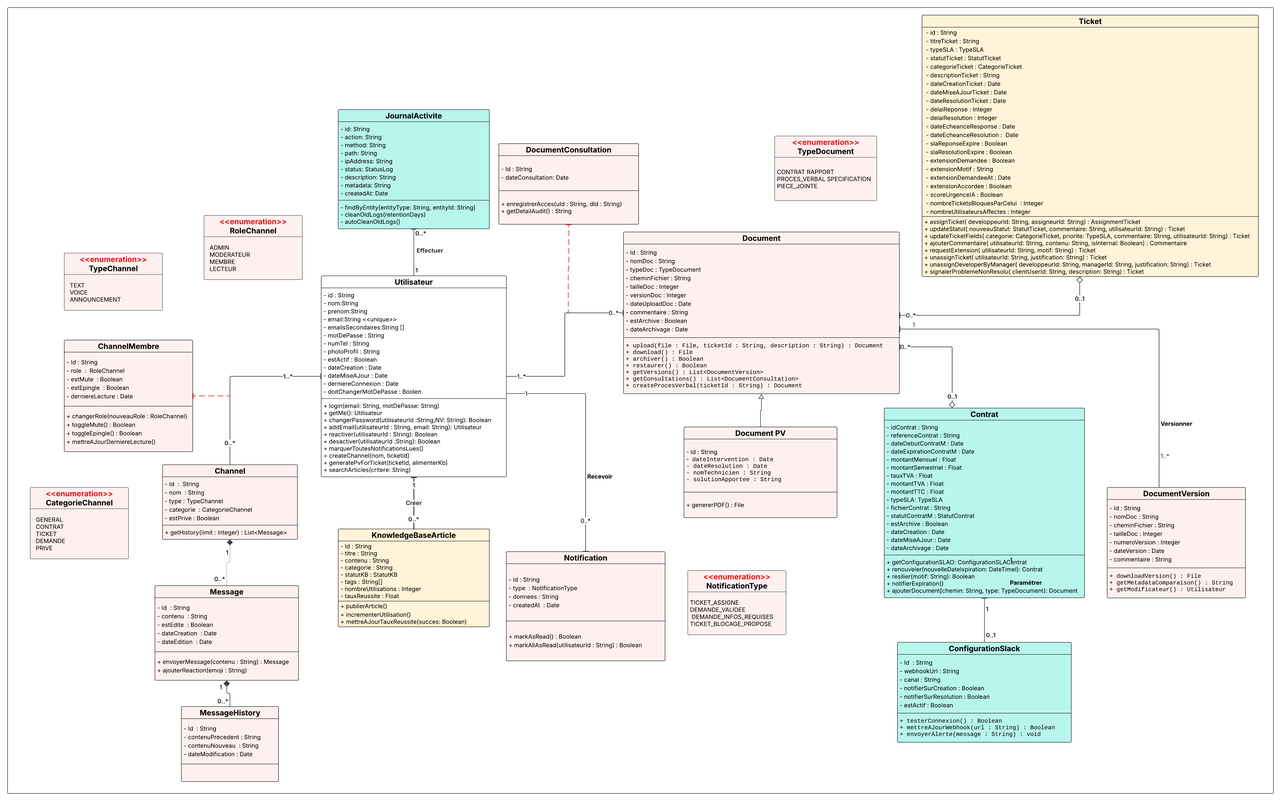
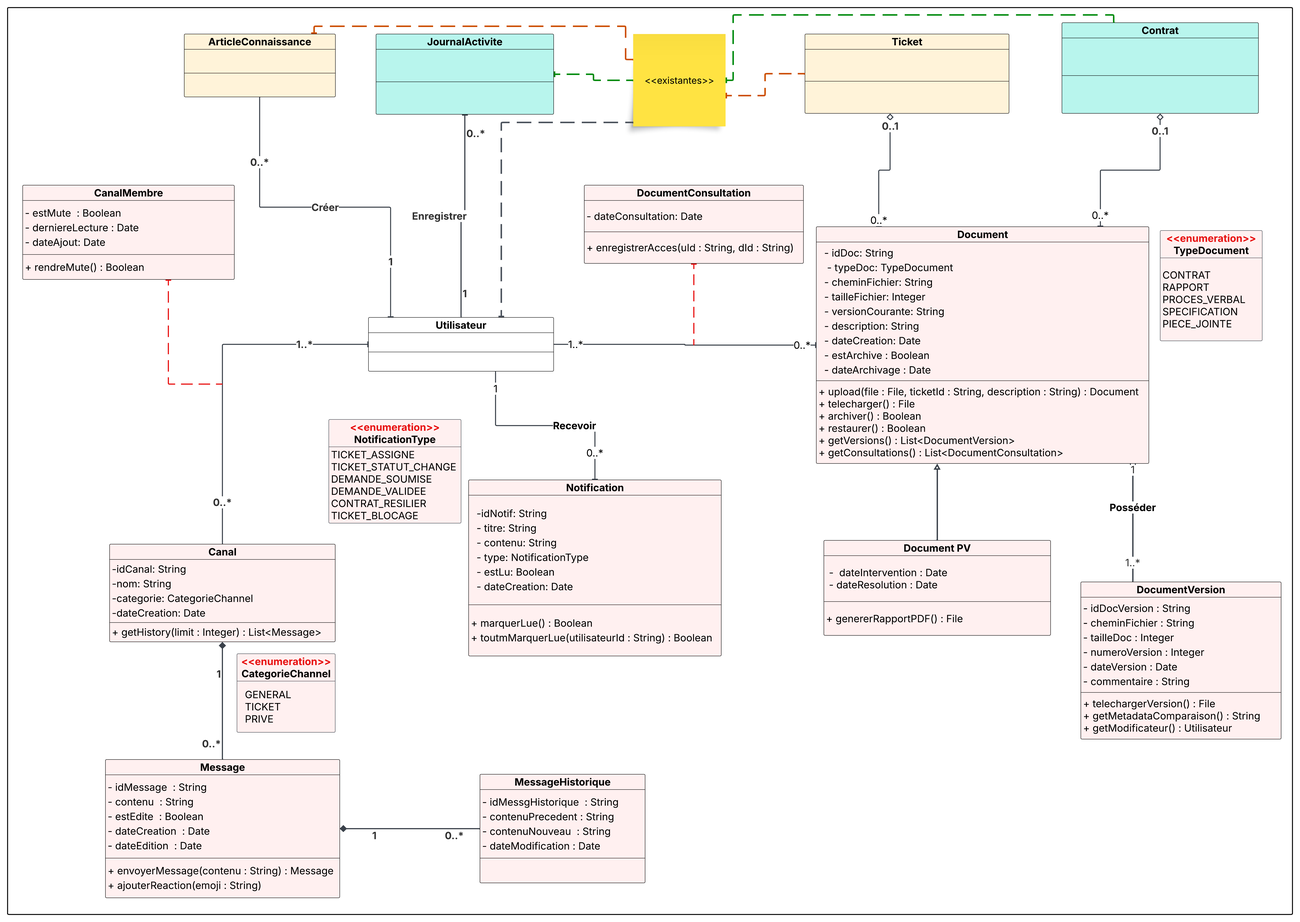
v

diff --git a/tex/product_backlog.tex b/tex/product_backlog.tex
@@ -191,121 +191,118 @@
 & & US48 & En tant que \textbf{chef de projet}, je souhaite consulter une file de priorité intelligente des tickets actifs afin de traiter en premier les interventions les plus critiques.
 & Les tickets sont triés par un score d'urgence composite et affichés avec leur niveau de criticité et le détail du calcul. & ++ \\
 \cline{3-6}
-& & US49 & En tant que \textbf{développeur}, je souhaite me désassigner d'un ticket afin de libérer ma charge. 
-& Le développeur doit fournir un motif pour se désassigner. Le ticket redevient disponible pour assignation. Le chef de projet est notifié de la désassignation. & ++ \\
-\cline{3-6}
-& & US50 & En tant que \textbf{développeur}, je souhaite démarrer un chronomètre sur un ticket afin d’enregistrer le temps de travail effectué. 
+& & US49 & En tant que \textbf{développeur}, je souhaite démarrer un chronomètre sur un ticket afin d’enregistrer le temps de travail effectué. 
 & Le développeur peut démarrer le suivi du temps de travail. Une session de travail est créée avec l'heure de début. Le développeur voit le temps écoulé en temps réel. & +++ \\
 \cline{3-6}
-& & US51 & En tant que \textbf{développeur}, je souhaite mettre en pause mon chronomètre afin de gérer les interruptions. 
+& & US50 & En tant que \textbf{développeur}, je souhaite mettre en pause mon chronomètre afin de gérer les interruptions. 
 & Le développeur peut suspendre temporairement le suivi du temps. Le temps écoulé est enregistré. Le développeur peut reprendre le suivi ultérieurement. & ++ \\
 \cline{3-6}
-& & US52 & En tant que \textbf{développeur}, je souhaite arrêter le chronomètre afin de finaliser ma session. 
+& & US51 & En tant que \textbf{développeur}, je souhaite arrêter le chronomètre afin de finaliser ma session. 
 & Le développeur peut arrêter le suivi du temps. Le développeur peut ajouter un commentaire sur le travail effectué. La session est ajoutée à l'historique. Le développeur est alerté si le temps dépasse l'estimation. & +++ \\
 \cline{3-6}
-& & US53 & En tant que \textbf{développeur}, je souhaite ajouter manuellement une session de travail afin de corriger des oublis. 
+& & US52 & En tant que \textbf{développeur}, je souhaite ajouter manuellement une session de travail afin de corriger des oublis. 
 & Le développeur peut enregistrer une session de travail passée. Le développeur doit fournir la date, l'heure et la durée. Le développeur doit justifier l'ajout manuel. Le système vérifie qu'il n'y a pas de chevauchement avec d'autres sessions. & ++ \\
 \cline{3-6}
-& & US54 & En tant que \textbf{développeur}, je souhaite changer le statut d'un ticket afin de refléter l'avancement. 
+& & US53 & En tant que \textbf{développeur}, je souhaite changer le statut d'un ticket afin de refléter l'avancement. 
 & Le développeur peut faire progresser un ticket selon le workflow défini. Le système empêche les transitions invalides. Toutes les parties prenantes sont notifiées lors d'un changement. L'historique des changements est conservé. & +++ \\
 \cline{3-6}
-& & US55 & En tant que \textbf{client}, je souhaite valider la résolution d'un ticket afin de confirmer que le problème est résolu. 
+& & US54 & En tant que \textbf{client}, je souhaite valider la résolution d'un ticket afin de confirmer que le problème est résolu. 
 & Le client peut confirmer que le problème est résolu. Le client peut ajouter un commentaire de validation. Le ticket est fermé après validation. Le développeur est notifié de la validation. & +++ \\
 \cline{3-6}
-& & US56 & En tant que \textbf{chef de projet}, je souhaite rouvrir un ticket fermé afin de traiter un problème récurrent. 
+& & US55 & En tant que \textbf{chef de projet}, je souhaite rouvrir un ticket fermé afin de traiter un problème récurrent. 
 & Le chef de projet doit justifier la réouverture. Le délai SLA est réinitialisé. Les développeurs assignés sont notifiés. & ++ \\
 \cline{3-6}
-& & US57 & En tant que \textbf{chef de projet}, je souhaite consulter le temps passé par ticket afin d'analyser la productivité. 
+& & US56 & En tant que \textbf{chef de projet}, je souhaite consulter le temps passé par ticket afin d'analyser la productivité. 
 & Le chef de projet visualise le temps total passé sur chaque ticket. Le chef de projet voit le détail par développeur. Les données sont présentées sous forme de graphiques. & ++ \\
 \cline{3-6}
-& & US58 & En tant que \textbf{développeur}, je souhaite signaler un blocage afin d'alerter sur un obstacle. 
+& & US57 & En tant que \textbf{développeur}, je souhaite signaler un blocage afin d'alerter sur un obstacle. 
 & Le développeur peut signaler un obstacle bloquant. Le développeur précise le type et l'impact du blocage. Le chef de projet reçoit une notification urgente. Le délai SLA est suspendu pendant le blocage. & +++ \\
 \cline{3-6}
-& & US59 & En tant que \textbf{chef de projet}, je souhaite résoudre un blocage afin de permettre au développeur de reprendre son travail. 
+& & US58 & En tant que \textbf{chef de projet}, je souhaite résoudre un blocage afin de permettre au développeur de reprendre son travail. 
 & Le blocage est résolu avec commentaire obligatoire, le chrono SLA reprend et l'action est tracée. & ++ \\
 \cline{3-6}
-& & US60 & En tant qu'\textbf{utilisateur}, je souhaite commenter un ticket avec mentions afin de communiquer efficacement. 
+& & US59 & En tant qu'\textbf{utilisateur}, je souhaite commenter un ticket avec mentions afin de communiquer efficacement. 
 & Les commentaires sont ajoutés avec éditeur riche, autocomplétion @utilisateur et distinction internes/externes. & +++ \\
 \cline{3-6}
-& & US61 & En tant qu'\textbf{utilisateur}, je souhaite ajouter des pièces jointes aux tickets afin de fournir du contexte. 
+& & US60 & En tant qu'\textbf{utilisateur}, je souhaite ajouter des pièces jointes aux tickets afin de fournir du contexte. 
 & Les fichiers sont ajoutés par drag \& drop (images/PDF/logs, max 10MB) avec prévisualisation. & ++ \\
 \cline{3-6}
-& & US62 & En tant que \textbf{développeur}, je souhaite être informé lorsqu'un autre utilisateur modifie le même ticket. 
+& & US61 & En tant que \textbf{développeur}, je souhaite être informé lorsqu'un autre utilisateur modifie le même ticket. 
 & Une notification temps réel via WebSocket affiche un toast et un indicateur "X est en train d'éditer". & ++ \\
 \cline{3-6}
-& & US63 & En tant qu'\textbf{utilisateur}, je souhaite consulter l'historique complet d'un ticket afin de comprendre son évolution. 
+& & US62 & En tant qu'\textbf{utilisateur}, je souhaite consulter l'historique complet d'un ticket afin de comprendre son évolution. 
 & La timeline chronologique inversée affiche tous les événements avec filtres par type et export PDF. & ++ \\
 \hline
 
 % Epic 9: Calendrier et planification
 \multirow{4}{*}{\centering 9} & \multirow{4}{2.5cm}{\centering Calendrier et planification}  
-& US64 & En tant qu'\textbf{utilisateur}, je souhaite visualiser les tickets et demandes de maintenance sur un calendrier mensuel afin d'avoir une vue globale des interventions 
+& US63 & En tant qu'\textbf{utilisateur}, je souhaite visualiser les tickets et demandes de maintenance sur un calendrier mensuel afin d'avoir une vue globale des interventions 
 & L'utilisateur peut naviguer entre les mois, distinguer les types d'événements (Tickets/Demandes) par couleur et voir les titres tronqués. & +++ \\
 \cline{3-6}
-& & US65 & En tant qu'\textbf{administrateur}, je souhaite identifier visuellement les urgences SLA sur le calendrier afin de prioriser les interventions critiques. 
+& & US64 & En tant qu'\textbf{administrateur}, je souhaite identifier visuellement les urgences SLA sur le calendrier afin de prioriser les interventions critiques. 
 & Les événements en retard ou proches de l'échéance apparaissent en rouge/orange avec un indicateur visuel (pulse) sur les urgences critiques. & +++ \\
 \cline{3-6}
-& & US66 & En tant que \textbf{Chef de Projet}, je souhaite accéder à une vue Gantt / Agenda afin d'analyser la charge de travail et la progression de chaque développeur. 
+& & US65 & En tant que \textbf{Chef de Projet}, je souhaite accéder à une vue Gantt / Agenda afin d'analyser la charge de travail et la progression de chaque développeur. 
 &La vue affiche la timeline des affectations, le pourcentage de progression des tickets et le taux de charge calculé en temps réel par développeur. & ++ \\
 \cline{3-6}
-& & US67 & En tant qu'\textbf{utilisateur}, je souhaite accéder aux détails d'un ticket directement depuis le calendrier afin de consulter ou modifier l'intervention rapidement. 
+& & US66 & En tant qu'\textbf{utilisateur}, je souhaite accéder aux détails d'un ticket directement depuis le calendrier afin de consulter ou modifier l'intervention rapidement. 
 & Un clic sur un événement dans le calendrier ou le panneau latéral redirige l'utilisateur vers la page de détails correspondante. & ++ \\
 \hline
 
 % Epic 10: Messagerie et collaboration
 \multirow{9}{*}{\centering 10} & \multirow{9}{2.5cm}{\centering Messagerie et collaboration} 
-& US68 & En tant qu'\textbf{utilisateur}, je souhaite accéder à une messagerie intégrée afin de communiquer avec mon équipe. 
+& US67 & En tant qu'\textbf{utilisateur}, je souhaite accéder à une messagerie intégrée afin de communiquer avec mon équipe. 
 & L'utilisateur visualise les canaux de discussion disponibles. L'utilisateur voit le nombre de messages non lus. L'utilisateur identifie les membres présents. & ++ \\
 \cline{3-6}
-& & US69 & En tant qu'\textbf{utilisateur}, je souhaite envoyer des messages dans un Canal afin de communiquer. 
+& & US68 & En tant qu'\textbf{utilisateur}, je souhaite envoyer des messages dans un Canal afin de communiquer. 
 & L'utilisateur peut rédiger et envoyer des messages. L'utilisateur peut joindre des fichiers. Les messages sont reçus instantanément par les autres membres. & +++ \\
 \cline{3-6}
-& & US70 & En tant qu'\textbf{utilisateur}, je souhaite répondre à un message afin de créer un fil de discussion. 
+& & US69 & En tant qu'\textbf{utilisateur}, je souhaite répondre à un message afin de créer un fil de discussion. 
 & L'utilisateur peut répondre à un message spécifique. Les réponses sont regroupées dans un fil dédié. Seuls les participants au fil reçoivent les notifications. & ++ \\
 \cline{3-6}
-& & US71 & En tant qu'\textbf{utilisateur}, je souhaite mentionner des collègues afin d'attirer leur attention. 
+& & US70 & En tant qu'\textbf{utilisateur}, je souhaite mentionner des collègues afin d'attirer leur attention. 
 & L'utilisateur peut mentionner un collègue dans un message. Le collègue mentionné reçoit une notification. Le message mentionné est mis en évidence pour le destinataire. & +++ \\
 \cline{3-6}
-& & US72 & En tant qu'\textbf{utilisateur}, je souhaite éditer mes messages afin de corriger des erreurs. 
+& & US71 & En tant qu'\textbf{utilisateur}, je souhaite éditer mes messages afin de corriger des erreurs. 
 & L'utilisateur peut modifier un message récemment envoyé. Le message modifié est identifiable. L'historique des modifications est conservé. & + \\
 \cline{3-6}
-& & US73 & En tant qu'\textbf{utilisateur}, je souhaite supprimer mes messages afin de retirer du contenu inapproprié. 
+& & US72 & En tant qu'\textbf{utilisateur}, je souhaite supprimer mes messages afin de retirer du contenu inapproprié. 
 & L'utilisateur peut supprimer ses propres messages. Une confirmation est demandée avant suppression. Le message supprimé reste visible pour l'audit. & + \\
 \cline{3-6}
-& & US74 & En tant qu'\textbf{utilisateur}, je souhaite voir qui est en ligne afin de savoir qui est disponible. 
+& & US73 & En tant qu'\textbf{utilisateur}, je souhaite voir qui est en ligne afin de savoir qui est disponible. 
 & L'utilisateur voit le statut de disponibilité des autres membres. L'utilisateur peut modifier son propre statut. Le statut est visible par tous les membres. & ++ \\
 \hline
 
 % Epic 11: Gestion des documents
 \multirow{11}{*}{\centering 11} & \multirow{11}{2.5cm}{\centering Gestion des documents} 
-& US75 & En tant qu'\textbf{utilisateur}, je souhaite uploader des documents afin de centraliser les fichiers. 
+& US74 & En tant qu'\textbf{utilisateur}, je souhaite uploader des documents afin de centraliser les fichiers. 
 & L'utilisateur peut téléverser des documents. L'utilisateur peut associer un document à un contrat, projet ou ticket. L'utilisateur peut ajouter un titre, une description et des tags. & ++ \\
 \cline{3-6}
-& & US76 & En tant qu'\textbf{utilisateur}, je souhaite télécharger des documents afin de les consulter hors ligne. 
+& & US75 & En tant qu'\textbf{utilisateur}, je souhaite télécharger des documents afin de les consulter hors ligne. 
 & L'utilisateur peut télécharger un document individuel. L'utilisateur peut télécharger plusieurs documents simultanément. Le système vérifie les permissions avant le téléchargement. La consultation est enregistrée pour traçabilité. & ++ \\
 \cline{3-6}
-& & US77 & En tant qu'\textbf{utilisateur}, je souhaite gérer les versions des documents afin d'assurer la traçabilité. 
+& & US76 & En tant qu'\textbf{utilisateur}, je souhaite gérer les versions des documents afin d'assurer la traçabilité. 
 & L'utilisateur peut téléverser une nouvelle version d'un document existant. Le système numérote automatiquement les versions. L'utilisateur doit fournir un commentaire pour chaque nouvelle version. & ++ \\
 \cline{3-6}
-& & US78 & En tant qu'\textbf{administrateur}, je souhaite archiver des documents afin de nettoyer la vue active. 
+& & US77 & En tant qu'\textbf{administrateur}, je souhaite archiver des documents afin de nettoyer la vue active. 
 &  L'administrateur peut archiver un document. Une confirmation est demandée avant archivage. Le document archivé peut être restauré ultérieurement. & + \\
 \cline{3-6}
-& & US79 & En tant que \textbf{chef de projet}, je souhaite générer automatiquement un PV à partir d'un ticket afin de documenter les interventions. 
+& & US78 & En tant que \textbf{chef de projet}, je souhaite générer automatiquement un PV à partir d'un ticket afin de documenter les interventions. 
 & Le chef de projet peut générer un procès-verbal depuis un ticket. Le document contient toutes les informations du ticket et les actions réalisées. Le document peut être signé électroniquement. & +++ \\
 \cline{3-6}
-& & US80 & En tant que \textbf{client}, je souhaite accéder aux documents de mes contrats et à mes justificatifs de tickets afin de centraliser nos échanges de fichiers. & 
+& & US79 & En tant que \textbf{client}, je souhaite accéder aux documents de mes contrats et à mes justificatifs de tickets afin de centraliser nos échanges de fichiers. & 
 Le client peut consulter et télécharger les documents liés à son contrat. Sur ses tickets, il n'accède qu'aux fichiers qu'il a lui-même soumis.& ++ \\
 \cline{3-6}
-& & US81 & En tant qu'\textbf{utilisateur}, je souhaite créer une nouvelle version d'un document afin de maintenir l'historique. 
+& & US80 & En tant qu'\textbf{utilisateur}, je souhaite créer une nouvelle version d'un document afin de maintenir l'historique. 
 & L'utilisateur peut téléverser une nouvelle version d'un document. L'utilisateur doit fournir un commentaire pour la nouvelle version. Le système numérote automatiquement les versions. Toutes les versions précédentes sont conservées. & ++ \\
 \cline{3-6}
-& & US82 & En tant qu'\textbf{utilisateur}, je souhaite voir qui a consulté un document afin de suivre sa diffusion. 
+& & US81 & En tant qu'\textbf{utilisateur}, je souhaite voir qui a consulté un document afin de suivre sa diffusion. 
 & L'utilisateur visualise la liste des consultations du document. L'historique indique la date, l'heure et l'utilisateur. Des statistiques de consultation sont disponibles. & ++ \\
 \cline{3-6}
-& & US83 & En tant qu'\textbf{développeur ou chef de projet}, je souhaite consulter la base de connaissances afin de trouver des solutions existantes. 
+& & US82 & En tant qu'\textbf{développeur ou chef de projet}, je souhaite consulter la base de connaissances afin de trouver des solutions existantes. 
 & L'utilisateur peut rechercher par mots-clés, catégorie ou tags. Les résultats affichent titre et extrait. Un clic ouvre l'article complet. & ++ \\
 \cline{3-6}
-& & US84 & En tant qu'\textbf{administrateur}, je souhaite créer des articles de la base de connaissances afin d'enrichir la documentation. 
+& & US83 & En tant qu'\textbf{administrateur}, je souhaite créer des articles de la base de connaissances afin d'enrichir la documentation. 
 & L'administrateur peut créer des articles. La création est tracée et horodatée. L'historique des versions est conservé. & ++ \\
 \cline{3-6}
 
@@ -313,73 +310,73 @@ Le client peut consulter et télécharger les documents liés à son contrat. Su
 
 % Epic 12: Notifications
 \multirow{5}{*}{\centering 12} & \multirow{5}{2.5cm}{\centering Notifications et alertes} 
-& US85 & En tant qu'\textbf{utilisateur}, je souhaite recevoir des notifications in-app afin d'être informé en temps réel. 
+& US84 & En tant qu'\textbf{utilisateur}, je souhaite recevoir des notifications in-app afin d'être informé en temps réel. 
 & L'utilisateur visualise le nombre de notifications non lues. L'utilisateur peut consulter la liste des notifications. L'utilisateur peut marquer une notification comme lue. L'utilisateur peut accéder directement à l'élément concerné. & +++ \\
 \cline{3-6}
-& & US86 & En tant qu'\textbf{utilisateur}, je souhaite recevoir des notifications par email afin d'être informé hors connexion. 
+& & US85 & En tant qu'\textbf{utilisateur}, je souhaite recevoir des notifications par email afin d'être informé hors connexion. 
 & L'utilisateur reçoit des emails pour les événements importants. & ++ \\
 \cline{3-6}
-& & US87 & En tant que \textbf{utilisateur}, je souhaite recevoir des notifications Slack afin d'être alerté sur mon outil de travail. 
+& & US86 & En tant que \textbf{utilisateur}, je souhaite recevoir des notifications Slack afin d'être alerté sur mon outil de travail. 
 & L'administrateur peut configurer l'intégration Slack par contrat ou projet. Les événements importants sont envoyés sur Slack. & ++ \\
 \cline{3-6}
-& & US88 & En tant qu'\textbf{utilisateur}, je souhaite recevoir des notifications push navigateur afin d'être alerté même hors onglet. 
+& & US87 & En tant qu'\textbf{utilisateur}, je souhaite recevoir des notifications push navigateur afin d'être alerté même hors onglet. 
 & L'utilisateur peut autoriser les notifications navigateur. L'utilisateur reçoit des alertes pour les événements critiques. L'utilisateur peut accéder à l'application en cliquant sur la notification. & ++ \\
 \cline{3-6}
-& & US89 & En tant qu'\textbf{utilisateur}, je souhaite consulter l'historique de mes notifications afin de retrouver une information. 
+& & US88 & En tant qu'\textbf{utilisateur}, je souhaite consulter l'historique de mes notifications afin de retrouver une information. 
 & L'utilisateur accède à l'historique depuis le bouton de notifications du header. Le compteur de notifications non lues reste visible. & ++ \\
 \hline
 
 % Epic 13: Dashboards et rapports
 \multirow{7}{*}{\centering 13} & \multirow{7}{2.5cm}{\centering Dashboards et rapports } 
-& US90 & En tant qu'\textbf{administrateur}, je souhaite consulter un dashboard global afin de piloter le système. 
+& US89 & En tant qu'\textbf{administrateur}, je souhaite consulter un dashboard global afin de piloter le système. 
 & L'administrateur visualise les indicateurs clés du système. L'administrateur peut filtrer les données par période. L'administrateur identifie les alertes nécessitant une action. & +++ \\
 \cline{3-6}
-&  & US91 & En tant que \textbf{chef de projet}, je souhaite consulter un dashboard d'équipe afin de piloter l'activité. 
+&  & US90 & En tant que \textbf{chef de projet}, je souhaite consulter un dashboard d'équipe afin de piloter l'activité. 
 & Le chef de projet visualise la charge de travail de son équipe. Le chef de projet suit la performance par rapport aux délais. Le chef de projet compare le temps passé au temps estimé. & +++ \\
 \cline{3-6}
-& & US92 & En tant que \textbf{client}, je souhaite consulter mon dashboard afin de suivre mes projets.
+& & US91 & En tant que \textbf{client}, je souhaite consulter mon dashboard afin de suivre mes projets.
 &Le dashboard permet au client de consulter ses KPIs globaux (haut), de suivre visuellement ses projets et tickets & ++ \\
 \cline{3-6}
-& & US93 & En tant qu'\textbf{administrateur}, je souhaite générer un rapport d'activité mensuel afin de présenter les statistiques. 
+& & US92 & En tant qu'\textbf{administrateur}, je souhaite générer un rapport d'activité mensuel afin de présenter les statistiques. 
 & L'administrateur génère un rapport pour une période donnée. Le rapport contient les tickets traités et le temps passé. Le rapport indique le respect des délais. Le rapport peut être exporté. & +++ \\
 \cline{3-6}
-& & US94 & En tant que\textbf{chef de projet}, je souhaite générer des rapports d'activité afin de présenter l'avancement. 
+& & US93 & En tant que\textbf{chef de projet}, je souhaite générer des rapports d'activité afin de présenter l'avancement. 
 & Le chef de projet génère un rapport pour son équipe ou projet. Le rapport affiche les tickets traités et le temps passé. Le rapport présente l'évolution de l'activité. & ++ \\
 \hline
 
 % Epic 14: Historique
 \multirow{4}{*}{\centering 14} & \multirow{4}{2.5cm}{\centering Historique et traçabilité} 
-& US95 & En tant qu'\textbf{administrateur}, je souhaite consulter l'historique complet de toutes les actions afin d'assurer la traçabilité. 
+& US94 & En tant qu'\textbf{administrateur}, je souhaite consulter l'historique complet de toutes les actions afin d'assurer la traçabilité. 
 & L'administrateur visualise toutes les actions effectuées dans le système. L'historique indique l'utilisateur, la date et l'action réalisée. L'historique conserve les valeurs avant et après modification. & +++ \\
 \cline{3-6}
-& & US96 & En tant qu'\textbf{administrateur}, je souhaite exporter les logs d'audit afin de répondre aux exigences de conformité. 
+& & US95 & En tant qu'\textbf{administrateur}, je souhaite exporter les logs d'audit afin de répondre aux exigences de conformité. 
 & L'administrateur peut exporter l'historique des actions. L'administrateur peut filtrer par période, utilisateur ou type d'action. Les données exportées sont sécurisées. & ++ \\
 \cline{3-6}
-& & US97 & En tant qu'\textbf{utilisateur}, je souhaite consulter l'historique complet d'un ticket afin de retracer son cycle de vie. 
+& & US96 & En tant qu'\textbf{utilisateur}, je souhaite consulter l'historique complet d'un ticket afin de retracer son cycle de vie. 
 & L'utilisateur visualise tous les événements du ticket (créations, changements de statut, sessions, assignations, commentaires, pièces jointes) avec date, heure et auteur. Un filtre par type d'événement est disponible. L'historique est exportable. & +++ \\
 \hline
 
 % Epic 15: Assistance intelligente
 \multirow{7}{*}{\centering 15} & \multirow{7}{2.5cm}{\centering Assistance intelligente} 
-& US98 & En tant que \textbf{chef de projet}, je souhaite que l'IA analyse automatiquement les blocages afin d'identifier rapidement les problèmes critiques. 
+& US97 & En tant que \textbf{chef de projet}, je souhaite que l'IA analyse automatiquement les blocages afin d'identifier rapidement les problèmes critiques. 
 & L'analyse est automatique lors du signalement. Le résultat est affiché dans l'interface. Un résumé clair du problème est présenté. & +++ \\
 \cline{3-6}
-& & US99 & En tant que \textbf{chef de projet}, je souhaite que l'IA propose des actions correctives afin de débloquer rapidement un développeur. 
+& & US98 & En tant que \textbf{chef de projet}, je souhaite que l'IA propose des actions correctives afin de débloquer rapidement un développeur. 
 & L'IA affiche 1 à 3 actions suggérées par blocage. Chaque action inclut destinataire et durée estimée. Le chef de projet peut valider une action qui crée automatiquement une tâche. & +++ \\
 \cline{3-6}
-& & US100 & En tant que \textbf{développeur}, je souhaite générer une suggestion de solution via l'IA afin de m'aider à rédiger la solution d'un ticket. 
+& & US99 & En tant que \textbf{développeur}, je souhaite générer une suggestion de solution via l'IA afin de m'aider à rédiger la solution d'un ticket. 
 & Un bouton de génération est disponible sur la fiche ticket. Le développeur peut modifier ou compléter la suggestion avant publication. & +++ \\
 \cline{3-6}
-& & US101 & En tant que \textbf{développeur}, je souhaite qu'un brouillon de solution soit généré à la fermeture d'un ticket afin de faciliter la documentation. 
+& & US100 & En tant que \textbf{développeur}, je souhaite qu'un brouillon de solution soit généré à la fermeture d'un ticket afin de faciliter la documentation. 
 & Un brouillon est créé automatiquement contenant : problème identifié, actions réalisées, résultat. Le développeur peut modifier le brouillon avant publication. & +++ \\
 \cline{3-6}
-& & US102 & En tant que \textbf{chef de projet}, je souhaite que l'IA propose une classification des demandes clients afin d'accélérer leur traitement, avec validation avant transmission au client. 
+& & US101 & En tant que \textbf{chef de projet}, je souhaite que l'IA propose une classification des demandes clients afin d'accélérer leur traitement, avec validation avant transmission au client. 
 & L'IA propose type/priorité/catégorie. Le chef de projet peut accepter, modifier ou rejeter. La classification validée est visible par le client. L'audit trace proposition IA vs choix final. & +++ \\
 \cline{3-6}
-& & US103 & En tant que \textbf{chef de projet}, je souhaite que l'IA structure automatiquement les solutions saisies en articles KB afin d'améliorer la documentation. 
+& & US102 & En tant que \textbf{chef de projet}, je souhaite que l'IA structure automatiquement les solutions saisies en articles KB afin d'améliorer la documentation. 
 & La solution brute est transformée en format structuré (Problème/Solution/Détails). Des tags sont générés automatiquement. L'auteur peut modifier avant publication. & ++ \\
 \cline{3-6}
-& & US104 & En tant que \textbf{chef de projet}, je souhaite que l'IA fusionne le brouillon d'un blocage avec la solution humaine afin de produire un article KB définitif. 
+& & US103 & En tant que \textbf{chef de projet}, je souhaite que l'IA fusionne le brouillon d'un blocage avec la solution humaine afin de produire un article KB définitif. 
 & La fusion est proposée pour les blocages résolus. L'article final combine l'analyse IA et la solution humaine. Le responsable peut valider ou modifier avant publication. & + \\
 \hline
 \end{longtable}

diff --git a/tex/chapitre6.tex b/tex/chapitre6.tex
@@ -576,32 +576,23 @@ et dépendances qui les unissent.
 Nous présentons ci-dessous le schéma relationnel réalisé pour ce sprint, qui détaille les différentes tables de la base de données ainsi que leurs relations :
 
 \noindent
-\textbf{Utilisateur} (\underline{idUtilisateur}, nom, prenom, email, emailsSecondaires, motDePasse, numTel, photoProfil, estActif, doitChangerMotDePasse, dateCreation, dateMiseAJour, derniereConnexion)
+\textbf{CanalMembre} (\underline{\#idCanal}, \underline{\#idUtilisateur}, estMute, derniereLecture, dateAjout)
 \newline
-\textbf{JournalActivite} (\underline{id}, action, method, path, ipAddress, status, description, metadata, createdAt, \textit{\#userId})
+\textbf{Message} (\underline{idMessage}, contenu, estEdite, dateCreation, dateEdition, \textbf{\#idCanal}, \textbf{\#idUtilisateur})
 \newline
- \textbf{Message} (\underline{id}, contenu, estEdite,  dateCreation, \textbf{\textit{\#channelId}})
+\textbf{MessageHistorique} (\underline{idMessgHistorique}, contenuPrecedent, contenuNouveau, dateModification, \textbf{\#idMessage})
 \newline
- \textbf{ChannelMembre} (\underline{id}, role, estMute, estEpingle, derniereLecture, \textit{\#channelId}, \textit{\#utilisateurId})
+\textbf{Document} (\underline{idDoc}, titre, typeDoc, cheminFichier, tailleFichier, versionCourante, description, dateCreation, estArchive, dateArchivage, \textbf{\#idTicket}, \textbf{\#idContrat})
 \newline
- \textbf{MessageHistory} (\underline{id}, contenuPrecedent, contenuNouveau, dateModification, \textit{\#messageId})
+\textbf{DocumentConsultation} (\underline{\#idDoc}, \underline{\#idUtilisateur}, dateConsultation)
 \newline
- \textbf{Document} (\underline{documentId}, nomDoc, typeDoc, cheminFichier, tailleDoc, versionDoc, dateUploadDoc, commentaire, estArchive, dateArchivage,  \textit{\#ticketId}, \textit{\#contratId}, \textit{\#uploadeurId}) 
- \newline
-\textbf{DocumentConsultation} (\underline{id}, dateConsultation,\textit{\#documentId}, \textit{\#utilisateurId})
- \newline
- \textbf{Document\_PV} (\underline{\textit{\#documentId}}, dateIntervention, dateResolution, nomTechnicien, solutionApportee)
- \newline
- \textbf{DocumentVersion} (\underline{id}, nomDoc, cheminFichier, tailleDoc, numeroVersion, dateVersion, commentaire, \textit{\#documentId})
- \newline
-\textbf{Notification} (\underline{id}, type, donnees, createdAt, \textit{\#destinataireId})
+\textbf{DocumentPV} (\underline{\textbf{\#idDoc}}, dateIntervention, dateResolution)
 \newline
-\textbf{KnowledgeBaseArticle} (\underline{id}, titre, contenu, categorie, statutKB, tag, nombreUtilisations, tauxReussite, \textit{\#auteurId})
+\textbf{DocumentVersion} (\underline{idDocVersion}, cheminFichier, tailleDoc, numeroVersion, dateVersion, commentaire, \textbf{\#idDoc}, \textbf{\#idUtilisateur})
 \newline
-\textbf{Contrat} (\underline{idContrat}, referenceContrat, dateDebutContratM, dateExpirationContratM, montantMensuel, montantSemestriel, tauxTVA, montantTVA, montantTTC, typeSLA, fichierContrat, statutContratM, estArchive, dateCreation, dateMiseAJour, dateArchivage)
+\textbf{Notification} (\underline{idNotif}, titre, contenu, type, estLu, dateCreation, dateResolution, \textbf{\#idUtilisateur})
 \newline
-\textbf{ConfigurationSlack} (\underline{id}, webhookUrl, canal, notifierSurCreation, notifierSurResolution, estActif, \textit{\#contratId})
-
+\textbf{ArticleConnaissance} (\underline{idArticleKB}, titre, contenu, categorie, statutKB, tag, nombreUtilisations, tauxReussite, \textbf{\#idSolutionTicket})
 }
 
 % ─────────────────────────────────────────────────────────────────────────────
